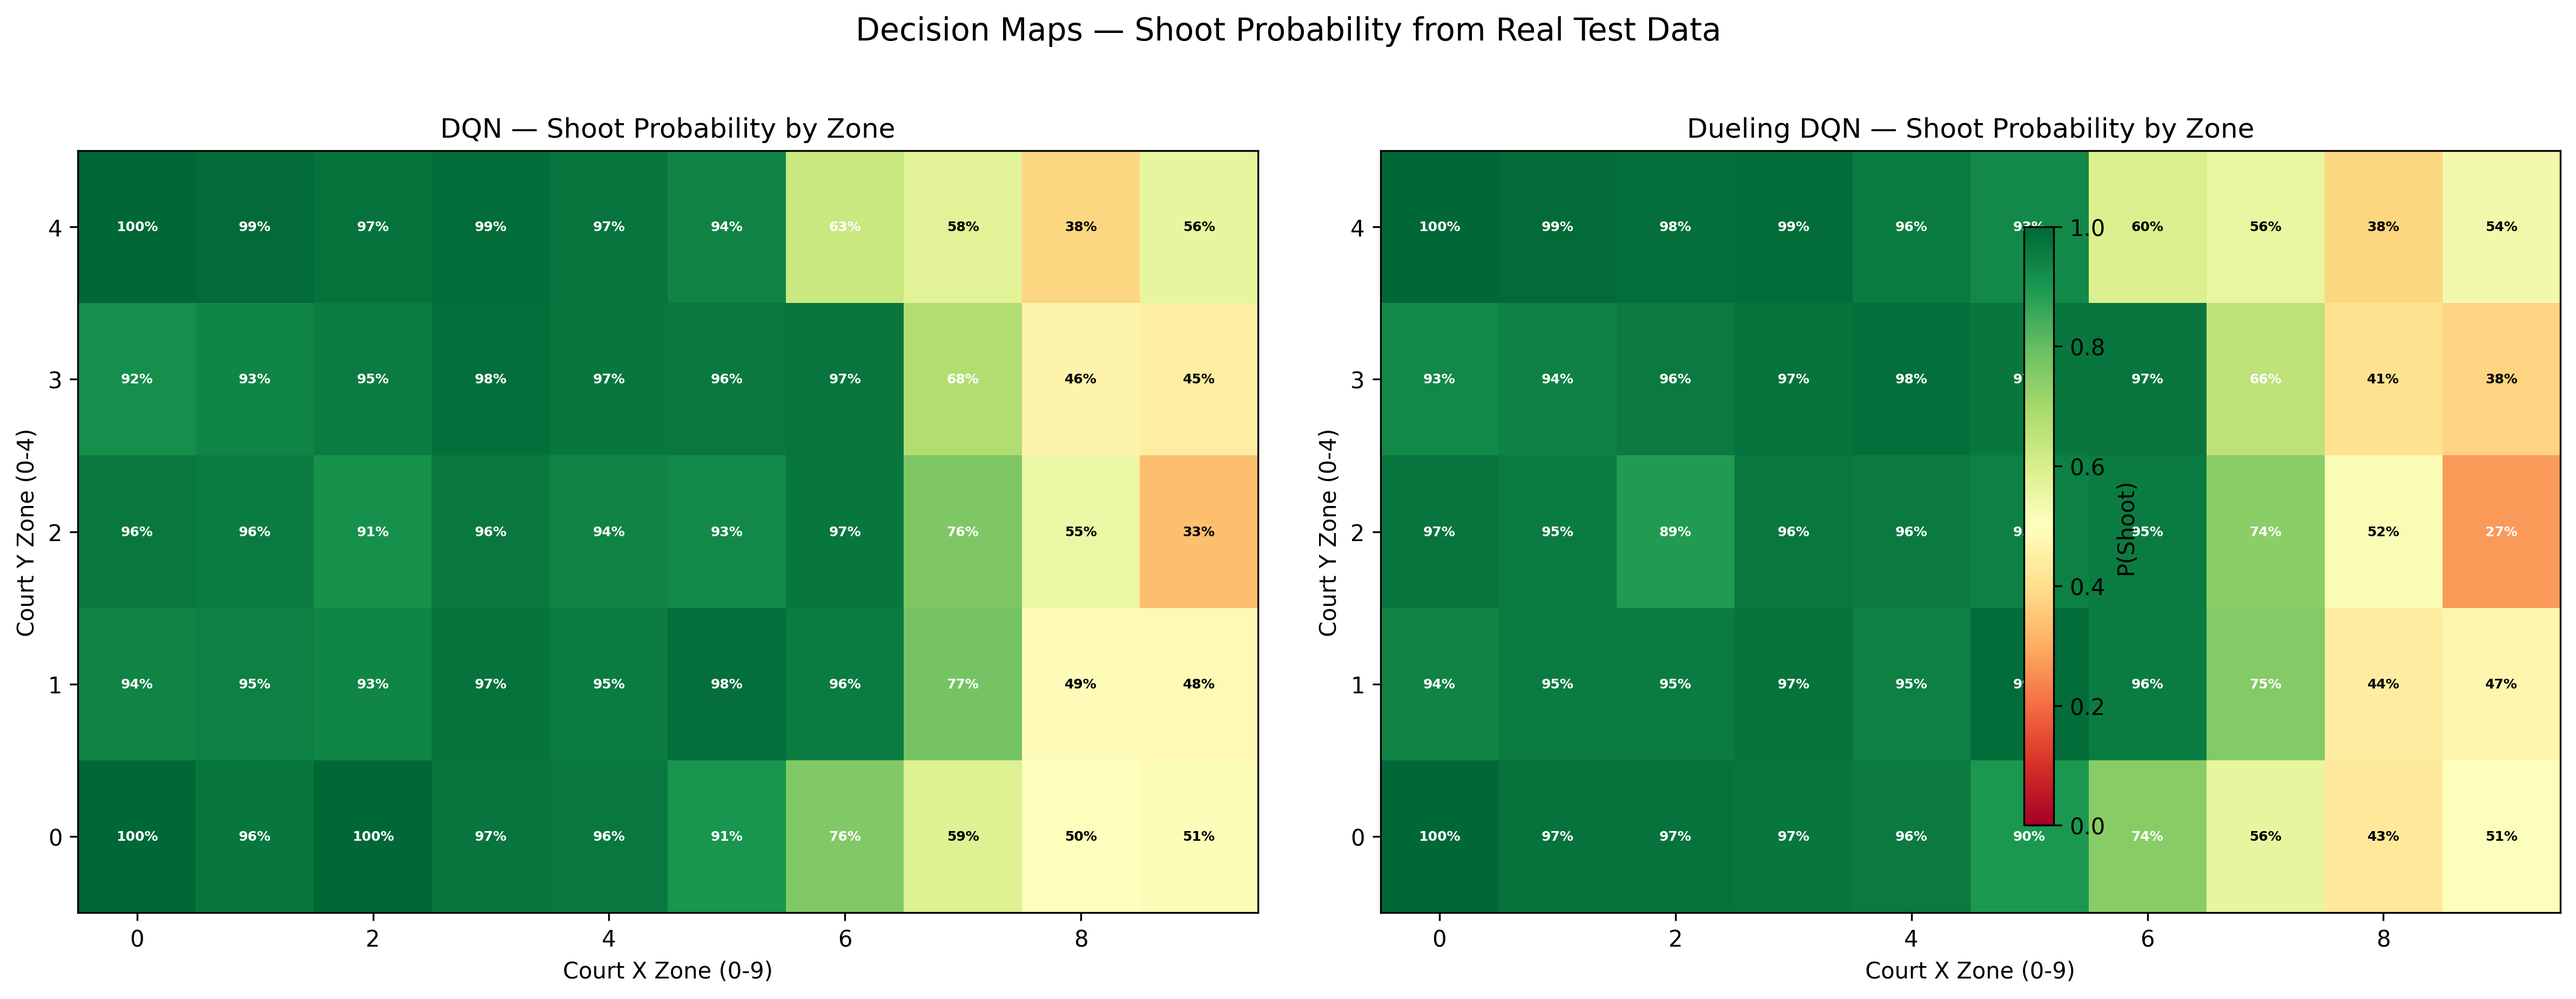
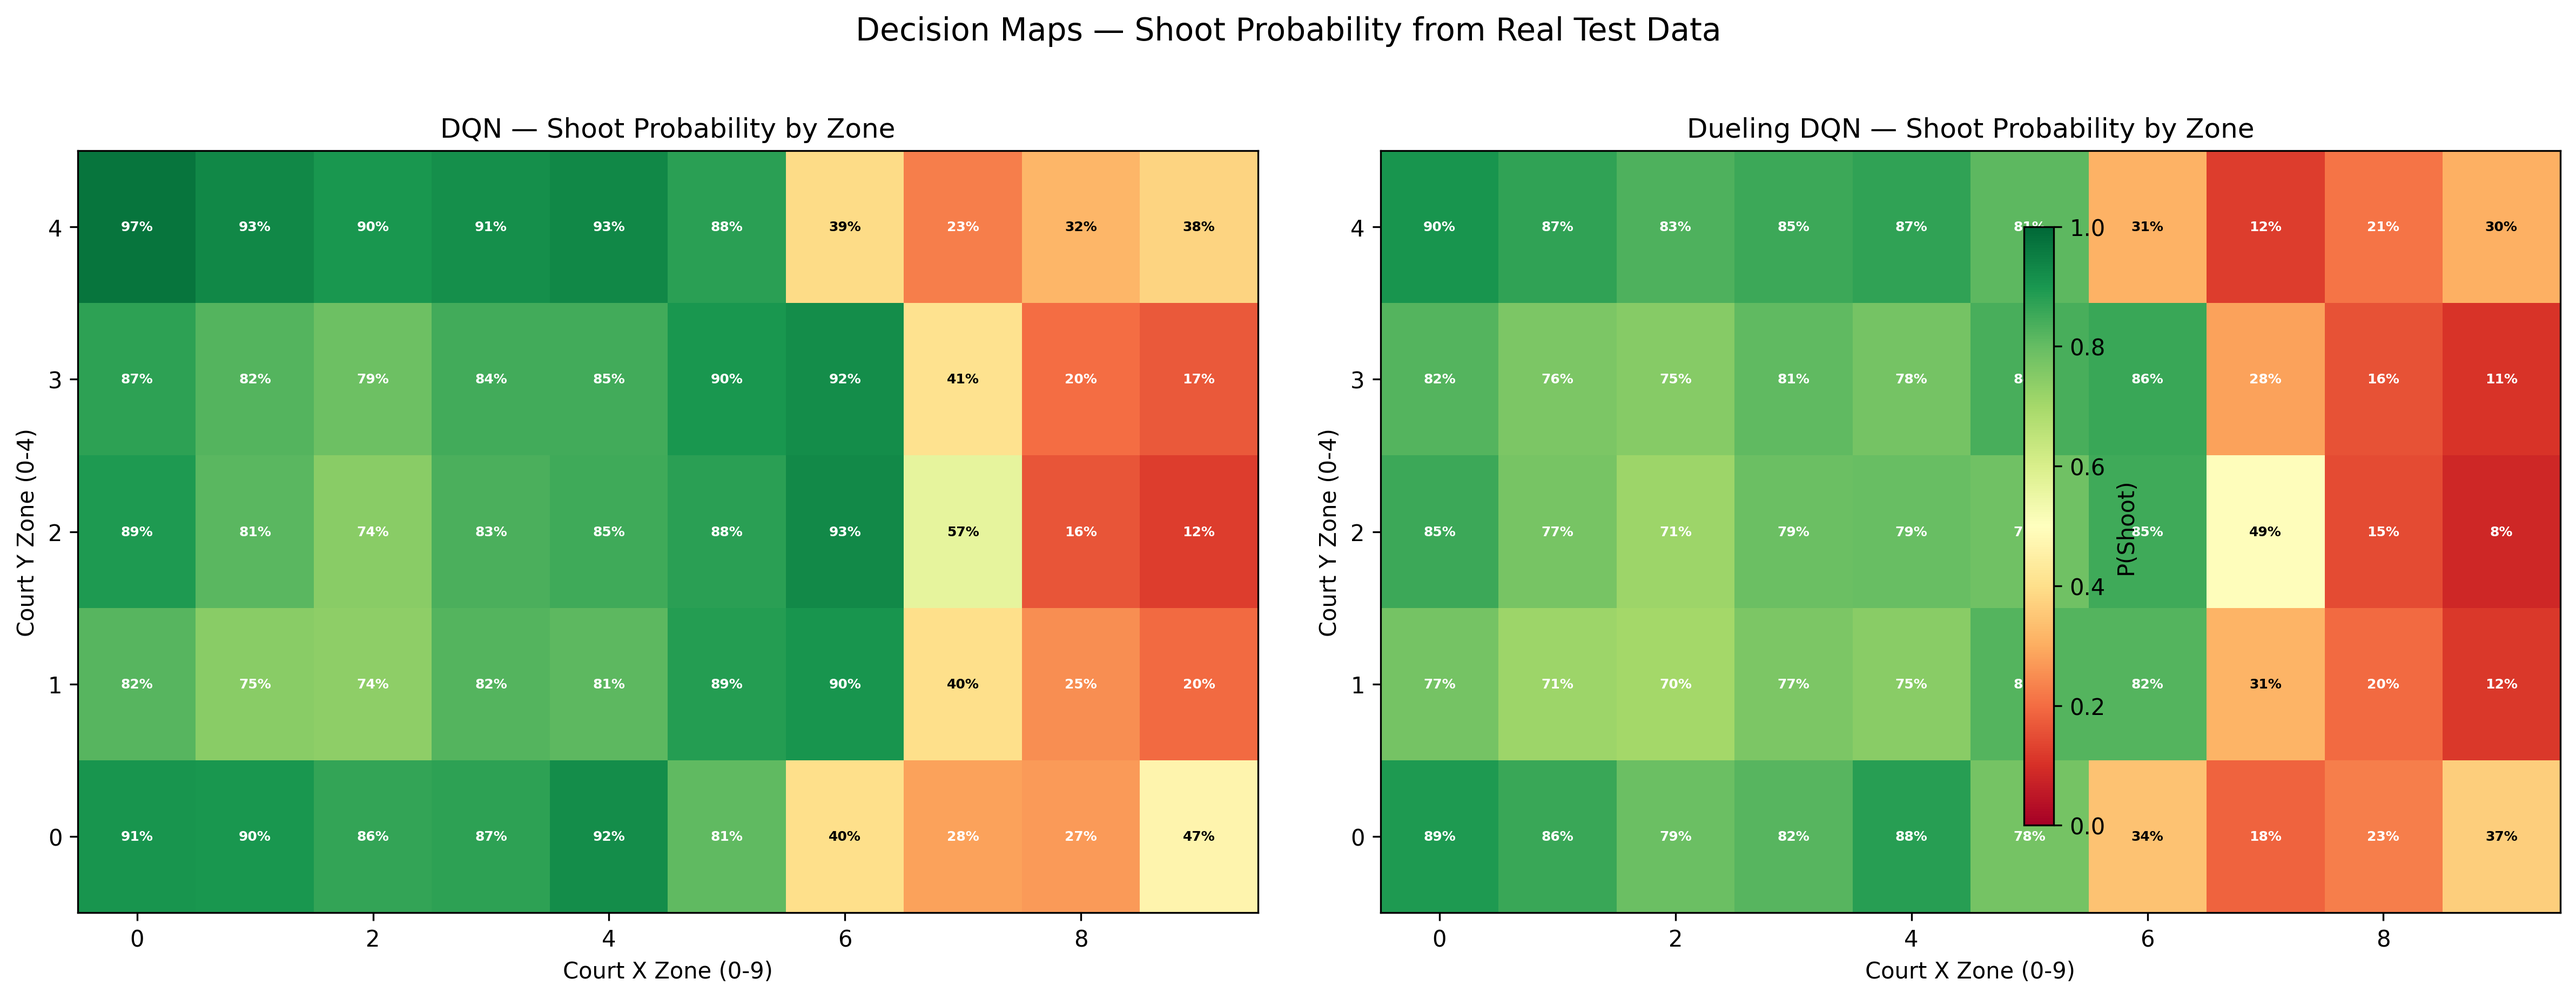
fix: update all files for v10 accuracy, regenerate plots
- Fix outdated state dimension references (11D/48D → 78D) across
  environment.py, dqn_agent.py, dueling_dqn_agent.py, training_script.py,
  02_segment_possessions.py
- Set config.yaml CQL alpha=0.0, LR=1e-4, pass_distance_penalty=0.0
  to match best model (pbrs_lr1e4)
- Fix evaluate_and_compare.py: paths point to best models, decision maps
  use full 78D state via _build_state() instead of broken 11D
- Regenerate all 7 comparison plots with best PBRS models

diff --git a/environment.py b/environment.py
@@ -8,19 +8,15 @@ environment with stochastic shot outcomes. Each episode is one historical
 possession. On reset(), a random possession is sampled. The episode steps
 through passes until a shoot action is taken or the possession ends.
 
-Phase 3: Uses real SportVU data with 11-dimensional state and a shot
-probability model for stochastic rewards.
+v10: Uses real SportVU data with 78-dimensional state (73 continuous + 5
+player IDs) and Potential-Based Reward Shaping (PBRS) with EPV potential.
 
-State vector (11 features):
-    [grid_zone, distance_to_basket, closest_defender_dist,
-     num_defenders_within_6ft, best_teammate_openness, num_open_teammates,
-     shot_clock, is_three_point_zone, ball_handler_zone_fg_pct,
-     best_open_teammate_dist_to_basket, best_open_teammate_zone_fg_pct]
+See ARCHITECTURE.md for full 78-feature state vector layout.
 
 Action space (Discrete, 5):
-    0: shoot
+    0: shoot (terminal)
     1-4: pass to teammate 1-4 (sorted by distance to ball-handler)
-         Reward differentiated by target teammate's expected value
+         PBRS reward: gamma * Phi(s') - Phi(s)
 
 AISE 4030 - Group 11
 """
@@ -37,16 +33,15 @@ class NBAShootOrPassEnv(gym.Env):
     A custom Gymnasium environment that models NBA offensive possessions
     as sequential MDPs for shot-selection reinforcement learning.
 
-    Phase 3 version: uses real SportVU tracking data with 11-dimensional
-    state and a trained shot probability model for stochastic outcomes.
+    v10: uses real SportVU tracking data with 78-dimensional state
+    (73 continuous + 5 player IDs) and PBRS rewards.
 
     Attributes:
         possessions (list): Preprocessed possession sequences from SportVU data.
         config (dict): Environment configuration dictionary.
-        shot_model: Trained sklearn model for P(made | features).
         current_possession (list): The possession being replayed.
         current_step (int): Index of current decision point.
-        state (np.ndarray): Current 11D state vector.
+        state (np.ndarray): Current 78D state vector.
     """
 
     metadata = {"render_modes": ["human"]}
@@ -57,7 +52,7 @@ class NBAShootOrPassEnv(gym.Env):
 
         Args:
             possessions (list): List of preprocessed possession sequences.
-                Each possession is a list of dicts with 12 state features
+                Each possession is a list of dicts with 78 state features
                 plus metadata (action, shot_made, is_three, turnover).
             config (dict): Configuration dictionary loaded from config.yaml.
             shot_model: Trained sklearn model with predict_proba() method.
@@ -176,7 +171,7 @@ class NBAShootOrPassEnv(gym.Env):
             options (dict, optional): Unused.
 
         Returns:
-            tuple: (state vector of shape (11,), empty info dict)
+            tuple: (state vector of shape (78,), empty info dict)
         """
         super().reset(seed=seed)
         if seed is not None:
@@ -257,14 +252,14 @@ class NBAShootOrPassEnv(gym.Env):
 
     def _build_state(self, decision_point: dict) -> np.ndarray:
         """
-        Constructs a normalized 48D state vector from a decision point dict.
-        43 continuous features + 5 player IDs (raw ints, split in network).
+        Constructs a normalized 78D state vector from a decision point dict.
+        73 continuous features + 5 player IDs (raw ints, split in network).
 
         Args:
             decision_point (dict): Dict with all feature keys.
 
         Returns:
-            np.ndarray: State vector of shape (48,). Continuous features
+            np.ndarray: State vector of shape (78,). Continuous features
                 normalized to [0, 1], player IDs as raw ints.
         """
         dp = decision_point

diff --git a/evaluate_and_compare.py b/evaluate_and_compare.py
@@ -297,7 +297,7 @@ def plot_episode_lengths(dqn_hist, dueling_hist, plots_dir):
 
 
 def plot_decision_maps(dqn_agent, dueling_agent, env, config, plots_dir):
-    """Plot 5: Shoot-probability heatmaps from real test data."""
+    """Plot 5: Shoot-probability heatmaps from real test data using full 78D state."""
     device = next(dqn_agent.online_net.parameters()).device
 
     fig, axes = plt.subplots(1, 2, figsize=(16, 6))
@@ -318,20 +318,10 @@ def plot_decision_maps(dqn_agent, dueling_agent, env, config, plots_dir):
                 if row >= 5 or col >= 10:
                     continue
 
-                raw = np.array([
-                    dp['grid_zone'], dp['distance_to_basket'],
-                    dp['closest_defender_dist'], dp['num_defenders_within_6ft'],
-                    dp['best_teammate_openness'], dp['num_open_teammates'],
-                    dp['shot_clock'], dp['is_three_point_zone'],
-                    dp['ball_handler_zone_fg_pct'],
-                    dp['best_open_teammate_dist_to_basket'],
-                    dp['best_open_teammate_zone_fg_pct'],
-                ], dtype=np.float32)
-                normalized = (raw - env._obs_low) / env._obs_range
-                normalized = np.clip(normalized, 0, 1)
-
+                # Build full 78D state using the environment's _build_state
+                state = env._build_state(dp)
                 state_tensor = torch.tensor(
-                    normalized, dtype=torch.float32
+                    state, dtype=torch.float32
                 ).unsqueeze(0).to(device)
 
                 with torch.no_grad():
@@ -397,9 +387,9 @@ def main():
 
     # --- Load training histories ---
     print("\n1. Loading training histories...")
-    with open('dqn_results/training_history.json') as f:
+    with open('results_v9/pbrs_dqn_nodist/training_history.json') as f:
         dqn_hist = json.load(f)
-    with open('dueling_dqn_results/training_history.json') as f:
+    with open('results_v9/pbrs_lr1e4/training_history.json') as f:
         dueling_hist = json.load(f)
     print(f"   DQN: {len(dqn_hist['episode_rewards'])} episodes")
     print(f"   Dueling: {len(dueling_hist['episode_rewards'])} episodes")
@@ -428,10 +418,10 @@ def main():
     )
 
     dqn_agent = DQNAgent(config, device)
-    dqn_agent.load('dqn_results/dqn_weights.pth')
+    dqn_agent.load('results_v9/pbrs_dqn_nodist/dqn_weights.pth')
 
     dueling_agent = DuelingDQNAgent(config, device)
-    dueling_agent.load('dueling_dqn_results/dueling_dqn_weights.pth')
+    dueling_agent.load('results_v9/pbrs_lr1e4/dueling_dqn_weights.pth')
 
     # --- Evaluate all policies ---
     print("\n4. Evaluating policies (500 episodes each)...")

diff --git a/02_segment_possessions.py b/02_segment_possessions.py
@@ -1,13 +1,13 @@
 """
 02_segment_possessions.py
 =========================
-Segments games into possessions and extracts 11 features at each decision
-point from the SportVU 2015-16 tracking data (HuggingFace format).
+Segments games into possessions and extracts 78 features (73 continuous + 5
+player IDs) at each decision point from SportVU 2015-16 tracking data.
 
-Each row in the HuggingFace dataset is one play-by-play EVENT with tracking
-moments. Events are grouped by gameid to reconstruct games. Within each
-shot/turnover event, we scan the moments to detect ball-handler changes
-(passes = decision points) and extract the 11-feature state vector.
+Processes .7z game files from local clone of linouk23/NBA-Player-Movements.
+Within each possession, detects ball-handler changes (passes = decision
+points) and extracts the full state vector including all player positions,
+velocities, pass lane features, and player IDs.
 
 Run after 00_pull_player_stats.py and 01_explore_data.py.
 Estimated time: ~20-30 minutes for medium config (~120 games).

diff --git a/training_script.py b/training_script.py
@@ -68,11 +68,8 @@ def print_environment_diagnostics(
     print(f"  Dtype      : {obs_space.dtype}")
     print(f"  Low bounds : {obs_space.low}")
     print(f"  High bounds: {obs_space.high}")
-    print(f"  Features   : [grid_zone, distance_to_basket, closest_defender_dist,")
-    print(f"                num_defenders_within_6ft, best_teammate_openness,")
-    print(f"                num_open_teammates, shot_clock, is_three_point_zone,")
-    print(f"                ball_handler_zone_fg_pct, best_open_teammate_dist_to_basket,")
-    print(f"                best_open_teammate_zone_fg_pct]")
+    print(f"  Features   : 78D (73 continuous + 5 player IDs)")
+    print(f"                See ARCHITECTURE.md for full state layout")
     print("Action Space:")
     print(f"  Type       : Discrete")
     print(f"  Num actions: {act_space.n}")

diff --git a/dqn_agent.py b/dqn_agent.py
@@ -104,7 +104,7 @@ class DQNAgent:
         During evaluation (training=False), always returns the greedy action.
 
         Args:
-            state (np.ndarray): The current state vector of shape (5,).
+            state (np.ndarray): The current state vector of shape (78,).
             training (bool): If True, applies epsilon-greedy exploration.
 
         Returns:

diff --git a/dueling_dqn_agent.py b/dueling_dqn_agent.py
@@ -101,7 +101,7 @@ class DuelingDQNAgent:
         Chooses an action using epsilon-greedy policy.
 
         Args:
-            state (np.ndarray): Current 12D state vector.
+            state (np.ndarray): Current 78D state vector.
             training (bool): If True, applies exploration.
 
         Returns:
